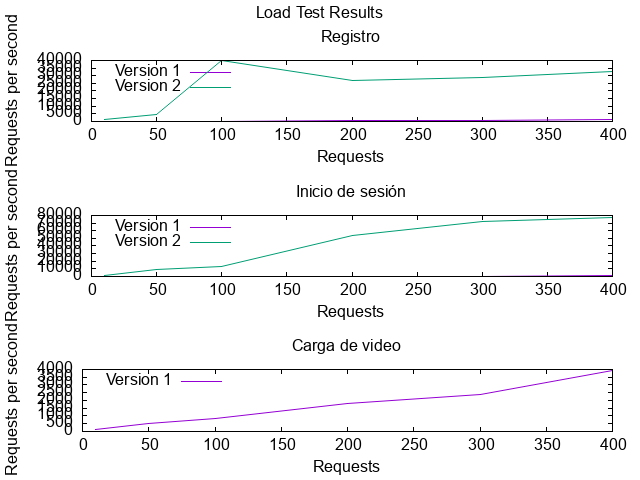
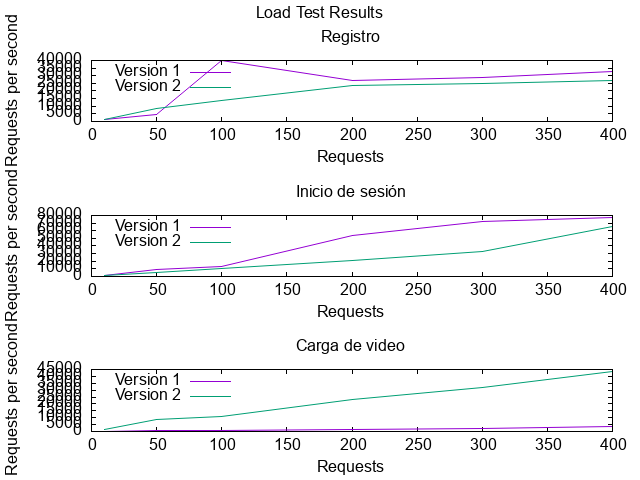
New estress tests

diff --git a/tester/tester.py b/tester/tester.py
@@ -5,9 +5,9 @@ import os
 import requests
 
 # Configuración de las pruebas de carga
-signup_url = "http://localhost:81/user/api/auth/signup"
-login_url = "http://localhost:81/user/api/auth/login"
-tasks_url = "http://localhost:81/user/api/tasks"
+signup_url = "http://35.188.61.182:8080/api/auth/signup"
+login_url = "http://35.188.61.182:8080/api/auth/login"
+tasks_url = "http://35.188.61.182:8080/api/tasks"
 # signup_url = "http://34.132.255.5:8080/api/auth/signup"
 # login_url = "http://34.132.255.5:8080/api/auth/login"
 # tasks_url = "http://34.132.255.5:8080/api/tasks"
@@ -42,12 +42,14 @@ def get_auth_token():
     raise Exception("Failed to obtain auth token")
 
 # Función para ejecutar las pruebas de carga con Apache Benchmark
-def run_load_test(url, requests, concurrency, data_file=None, header=None):
+def run_load_test(url, requests, concurrency, data_file=None, header=None, video_file=None):
   command = f"ab -n {requests} -c {concurrency}"
   if data_file:
     command += f" -p {data_file}"
   if header:
     command += f' -H "{header}"'
+  if video_file:
+    command += f' -T "video/mp4" -p "{video_file}"'
   command += f" {url}"
   process = subprocess.Popen(command, shell=True, stdout=subprocess.PIPE, stderr=subprocess.PIPE)
   output, error = process.communicate()
@@ -70,6 +72,7 @@ def extract_values(output):
 
 def save_results_to_csv(results):
   endpoints = ["registro", "inicio_de_sesion", "carga_de_video"]
+  # endpoints = ["carga_de_video"]
   
   for endpoint in endpoints:
     file_name = f"load_test_results_{endpoint}.csv"
@@ -96,39 +99,39 @@ load_test_results = []
 
 # Ejecutar las pruebas de carga para cada escenario
 for scenario in scenarios:
-  requests = scenario["requests"]
+  scenarioRequests = scenario["requests"]
   concurrency = scenario["concurrency"]
 
-  # Prueba de carga - registro de usuarios
-  print(f"Ejecutando prueba de carga para el registro de usuarios con {requests} solicitudes y {concurrency} de concurrencia...")
-  output, error = run_load_test(signup_url, requests, concurrency, signup_data_file)
+  # Prueba de estres - registro de usuarios
+  print(f"Ejecutando prueba de estres para el registro de usuarios con {scenarioRequests} solicitudes y {concurrency} de concurrencia...")
+  output, error = run_load_test(signup_url, scenarioRequests, concurrency, signup_data_file)
   print("Resultado:")
   print(output)
   print("Error (si hay alguno):")
   print(error)
   print("---")
-  load_test_results.append({"endpoint": "registro", "requests": requests, "concurrency": concurrency, "output": output})
+  load_test_results.append({"endpoint": "registro", "requests": scenarioRequests, "concurrency": concurrency, "output": output})
 
-  # Prueba de carga - inicio de sesion
-  print(f"Ejecutando prueba de carga para el inicio de sesion con {requests} solicitudes y {concurrency} de concurrencia...")
-  output, error = run_load_test(login_url, requests, concurrency, login_data_file)
+  # Prueba de estres - inicio de sesion
+  print(f"Ejecutando prueba de estres para el inicio de sesion con {scenarioRequests} solicitudes y {concurrency} de concurrencia...")
+  output, error = run_load_test(login_url, scenarioRequests, concurrency, login_data_file)
   print("Resultado:")
   print(output)
   print("Error (si hay alguno):")
   print(error)
   print("---")
-  load_test_results.append({"endpoint": "inicio_de_sesion", "requests": requests, "concurrency": concurrency, "output": output})
+  load_test_results.append({"endpoint": "inicio_de_sesion", "requests": scenarioRequests, "concurrency": concurrency, "output": output})
 
-  # Prueba de carga - carga de video
-  print(f"Ejecutando prueba de carga para la carga de video con {requests} solicitudes y {concurrency} de concurrencia...")
+  # Prueba de estres - carga de video
+  print(f"Ejecutando prueba de estres para la carga de video con {scenarioRequests} solicitudes y {concurrency} de concurrencia...")
   header = f'Authorization: Bearer {auth_token}'
-  output, error = run_load_test(tasks_url, requests, concurrency, header=header, data_file=video_file)
+  output, error = run_load_test(tasks_url, scenarioRequests, concurrency, header=header)
   print("Resultado:")
   print(output)
   print("Error (si hay alguno):")
   print(error)
   print("---")
-  load_test_results.append({"endpoint": "carga_de_video", "requests": requests, "concurrency": concurrency, "output": output})
+  load_test_results.append({"endpoint": "carga_de_video", "requests": scenarioRequests, "concurrency": concurrency, "output": output})
 
 # Guardar los resultados
 save_results_to_csv(load_test_results)
